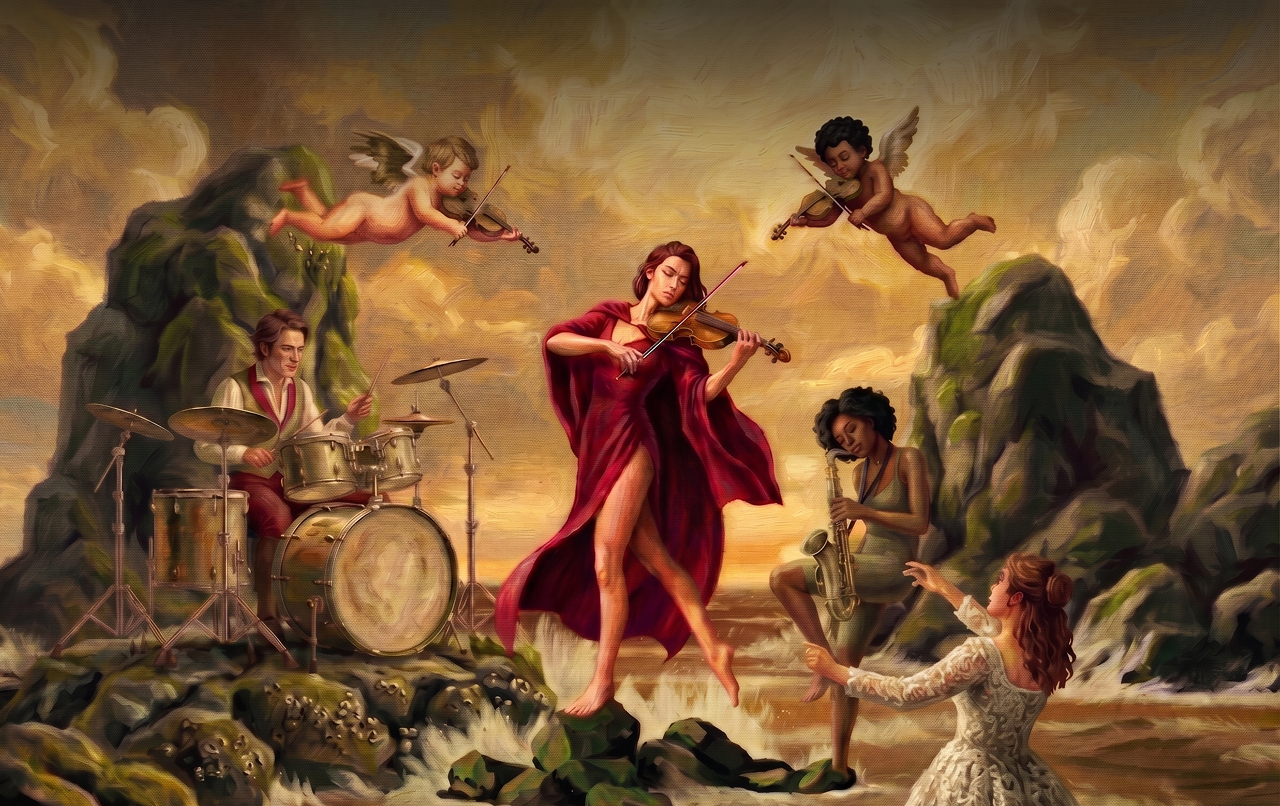
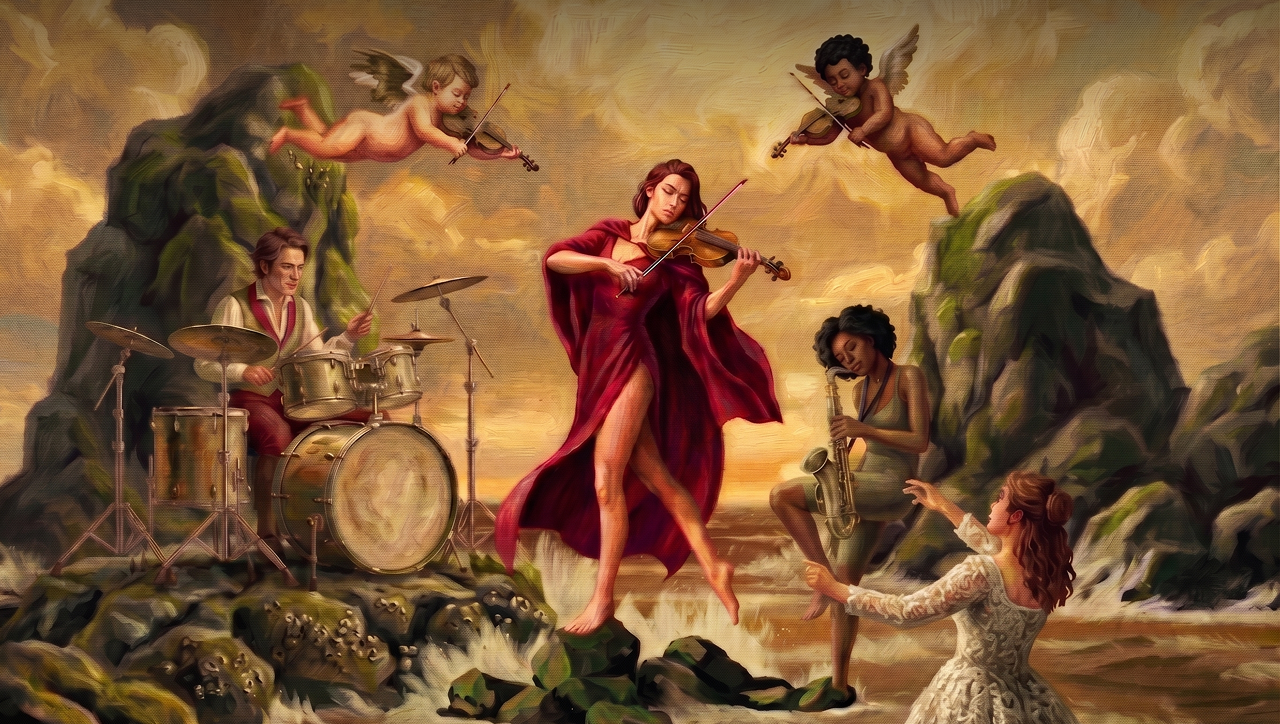
feat: add responsive landing page with dynamic navbar and featured product catalog

diff --git a/src/app/page.tsx b/src/app/page.tsx
@@ -58,29 +58,29 @@ export default function Home() {
       {/* Hero Section */}
       <section
         className="relative w-full flex flex-col items-center justify-center text-center overflow-hidden bg-cover bg-center"
-        style={{ backgroundImage: "url('/HERO_SECTION2.png')", aspectRatio: "1280/806" }}
+        style={{ backgroundImage: "url('/HERO_SECTION.png')", aspectRatio: "1280/806" }}
       >
         {/* Content */}
         <div className="relative z-10 max-w-4xl px-4 sm:px-6 flex flex-col items-center justify-center">
           <h1 className="flex flex-col items-center text-center">
-            <span className="font-cormorant italic font-light text-white text-3xl sm:text-5xl md:text-6xl lg:text-8xl tracking-normal capitalize drop-shadow-[0_4px_12px_rgba(0,0,0,0.9)]">
+            <span className="font-cormorant italic font-light text-white text-3xl sm:text-5xl md:text-6xl lg:text-8xl tracking-normal capitalize drop-shadow-[0_4px_12px_rgba(0,0,0,0.7)]">
               L&apos;Archive
             </span>
-            <span className="font-clash font-bold text-white text-4xl sm:text-6xl md:text-7xl lg:text-9xl tracking-widest uppercase mt-[-8px] sm:mt-[-16px] md:mt-[-20px] drop-shadow-[0_4px_12px_rgba(0,0,0,0.9)]">
+            <span className="font-clash font-medium text-white text-7xl sm:text-6xl md:text-7xl lg:text-8xl tracking-normal uppercase mt-2vh sm:mt-[-16px] md:mt-[-20px] -lg:mt-0.7 drop-shadow-[0_4px_12px_rgba(0,0,0,0.5)]">
               Sonore
             </span>
           </h1>
 
           {/* Elegant thin long down arrow scroll indicator */}
           <div className="pt-8 sm:pt-14 md:pt-20 flex justify-center">
-            <svg 
-              className="w-6 sm:w-8 h-20 sm:h-32 text-white/40 hover:text-white transition-colors duration-300" 
-              fill="none" 
-              stroke="currentColor" 
-              viewBox="0 0 24 24"
-              strokeWidth="0.75"
+            <svg
+              className="w-8 sm:w-10 h-32 sm:h-48 text-white"
+              fill="none"
+              stroke="currentColor"
+              viewBox="0 0 24 48"
+              strokeWidth="0.5"
             >
-              <path strokeLinecap="round" strokeLinejoin="round" d="M12 2v20m0 0l-4-4m4 4l4-4" />
+              <path strokeLinecap="round" strokeLinejoin="round" d="M12 2v44m0 0l-6-6m6 6l6-6" />
             </svg>
           </div>
         </div>

diff --git a/src/components/layout/Navbar.tsx b/src/components/layout/Navbar.tsx
@@ -18,27 +18,28 @@ export default function Navbar() {
   const [isTransparent, setIsTransparent] = useState(true);
   const [lastScrollY, setLastScrollY] = useState(0);
 
+  // Check scroll position on mount or pathname change
   useEffect(() => {
-    // Immediate check on mount/pathname change
     const checkScroll = () => {
       const currentScrollY = window.scrollY;
-      if (isHome && currentScrollY <= 300) {
+      if (isHome && currentScrollY <= 50) {
         setIsTransparent(true);
       } else {
         setIsTransparent(false);
       }
     };
-
     checkScroll();
+  }, [isHome]);
 
+  useEffect(() => {
     const handleScroll = () => {
       const currentScrollY = window.scrollY;
 
       // Transparent logic for homepage
       if (isHome) {
-        if (currentScrollY <= 300) {
+        if (currentScrollY <= 50) {
           setIsTransparent(true);
-        } else {
+        } else if (currentScrollY < lastScrollY) {
           setIsTransparent(false);
         }
       } else {
